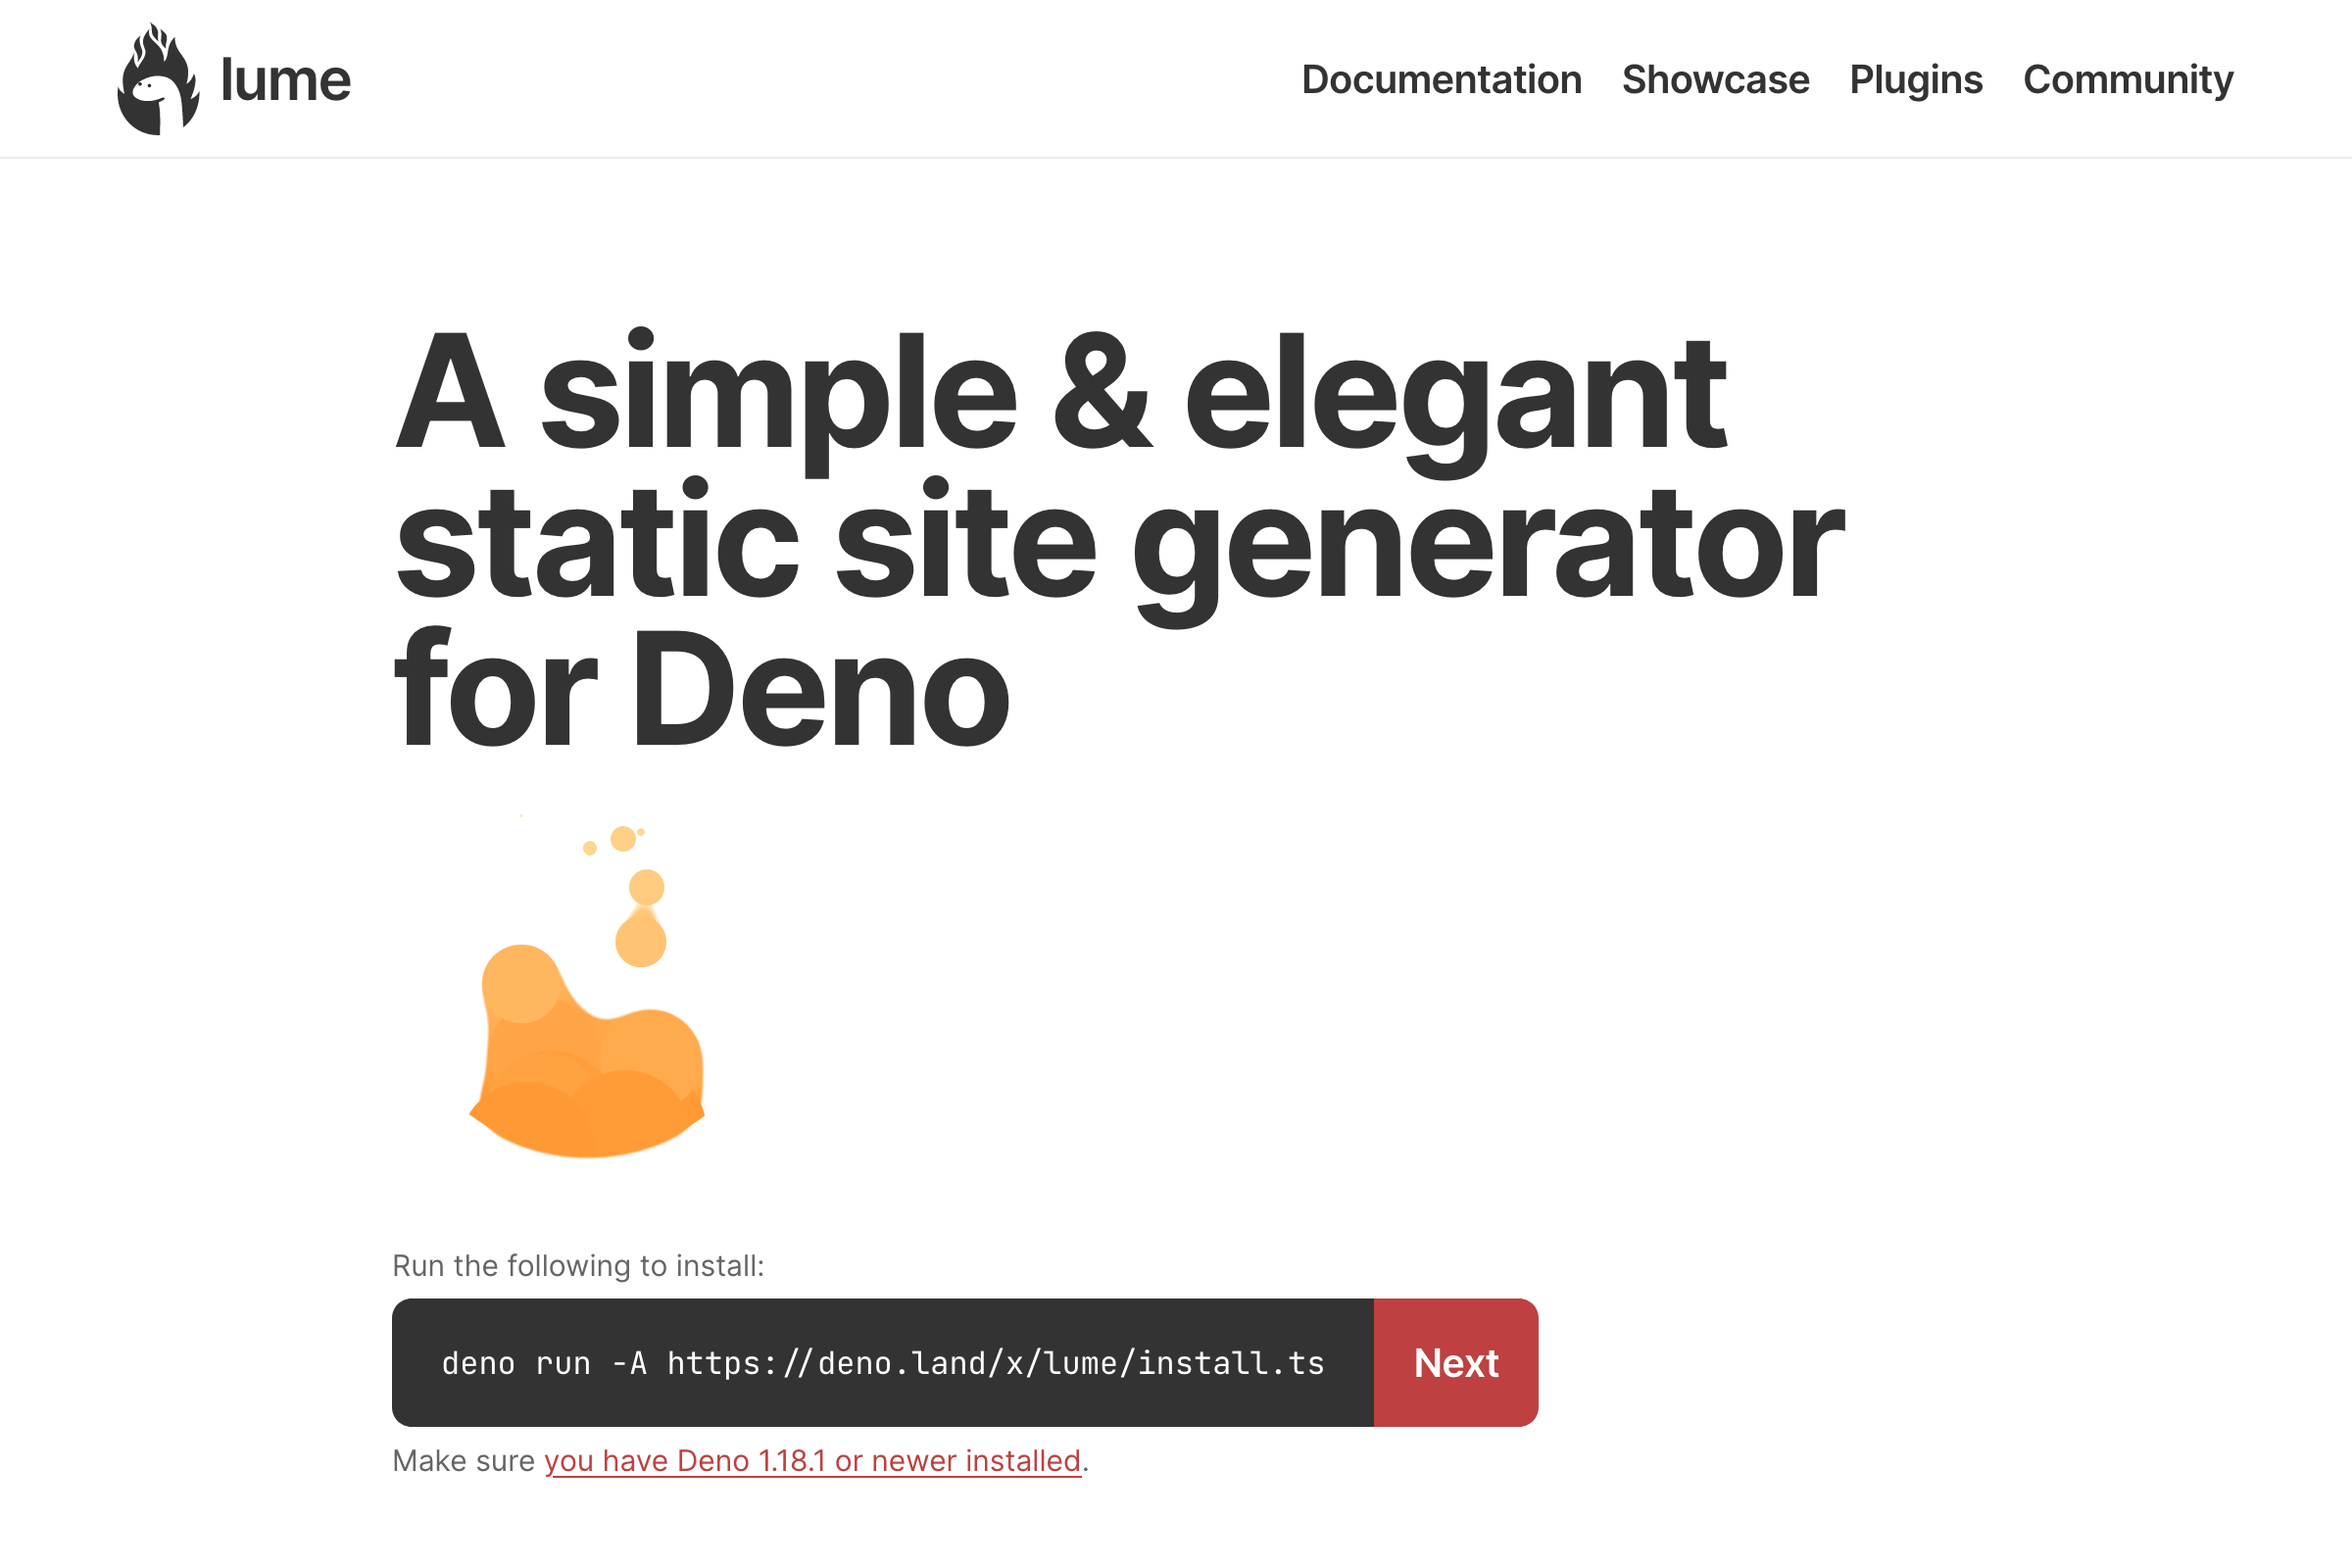
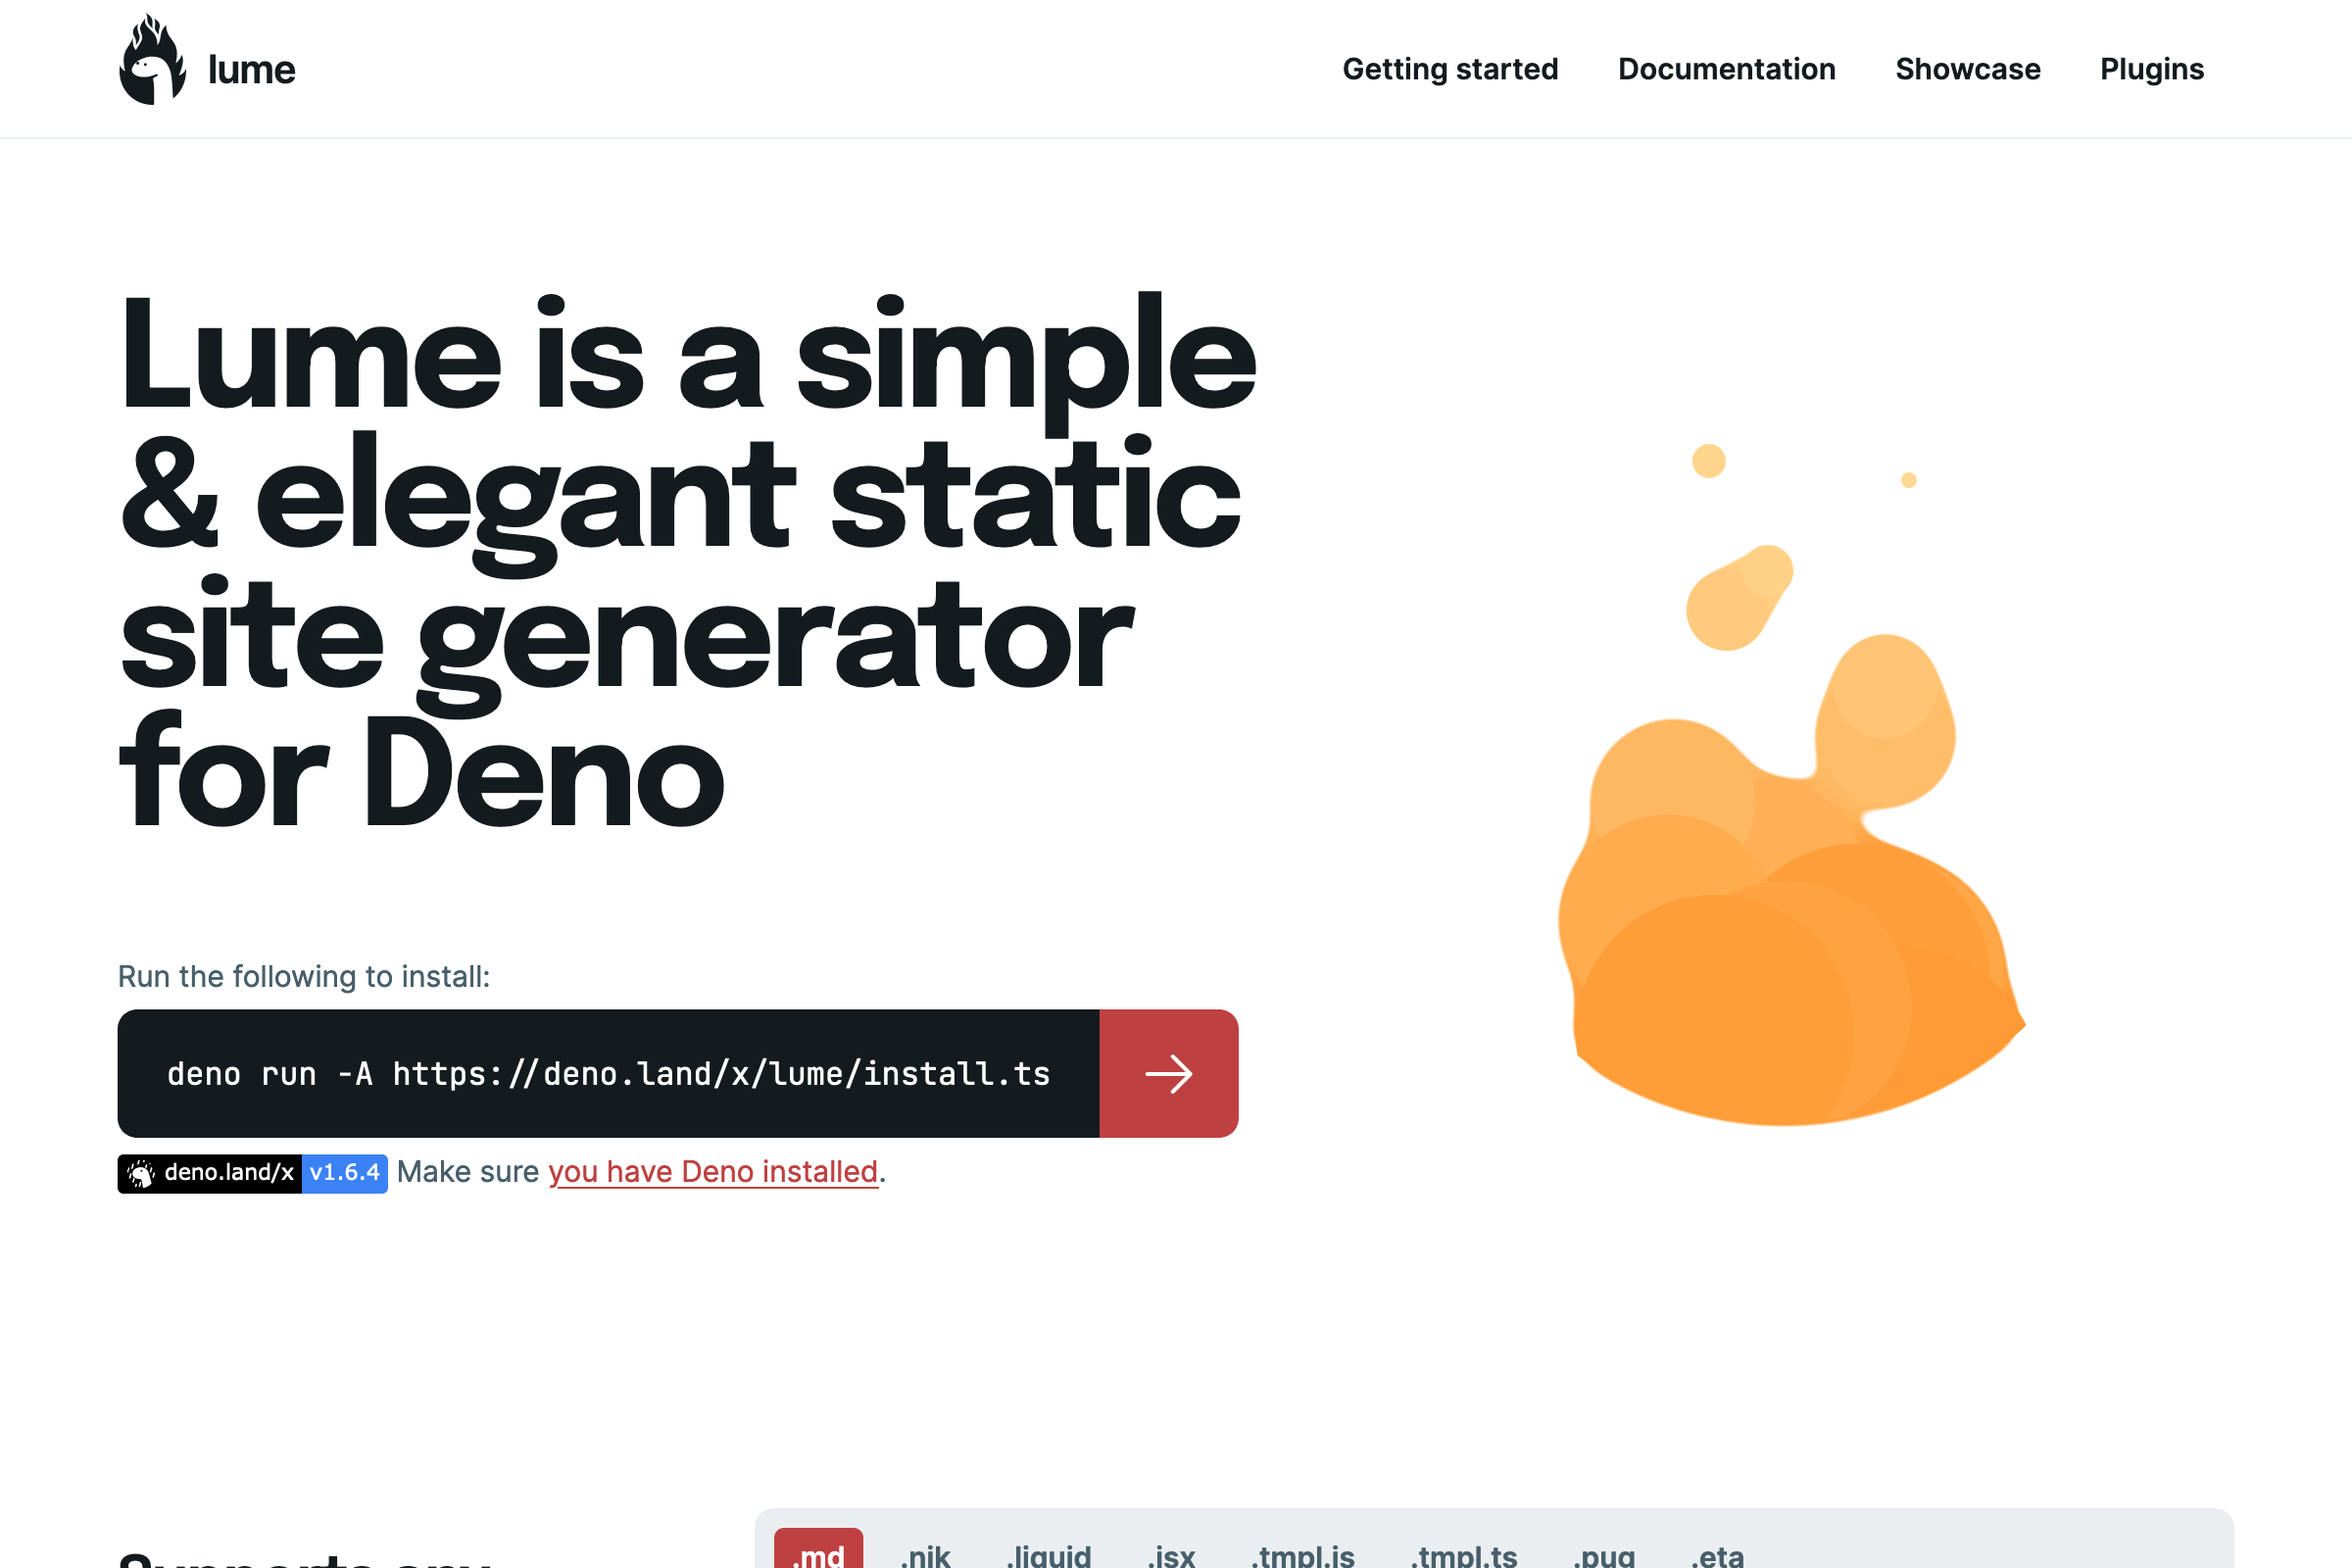
style improvements

diff --git a/styles/pages/landing.css b/styles/pages/landing.css
@@ -14,19 +14,33 @@
 
 /** Header */
 .landing-header {
-  width: min(800px, 100%);
-  margin: auto;
+  position: relative;
 
   & h1 {
     font: var(--text-display);
     letter-spacing: var(--text-display-spacing);
     margin: 0;
     max-width: 8em;
+    grid-area: title;
+  }
+
+  @media (min-width: 1000px) {
+    display: grid;
+    grid-template-columns: minmax(620px, 1fr) 1fr;
+    grid-template-areas: "title fire" "install fire";
+    row-gap: var(--row-gap-0);
   }
 }
 .landing-header-fire {
   margin: 0;
   padding: 0;
+  grid-area: fire;
+  align-self: end;
+  justify-self: center;
+
+  @media (min-width: 1000px) {
+    font-size: min(2.5vw, 40px);
+  }
 }
 
 /** Install */
@@ -34,6 +48,7 @@
   margin: var(--row-gap-0) 0 0;
   font: var(--text-caption);
   color: var(--color-foreground-1);
+  grid-area: install;
 
   & p {
     margin: 0;
@@ -172,7 +187,12 @@
   display: flex;
   column-gap: 10px;
   overflow-x: auto;
+  -webkit-overflow-scrolling: touch;
   scrollbar-width: none;
+
+  &::-webkit-scrollbar {
+    display: none;
+  }
 
   & > a {
     flex: 0 0 auto;

diff --git a/_includes/styles/components/navbar.css b/_includes/styles/components/navbar.css
@@ -13,6 +13,9 @@
   justify-content: space-between;
   height: 70px;
   overflow-x: auto;
+  column-gap: var(--column-gap-1);
+  -webkit-overflow-scrolling: touch;
+  scrollbar-width: thin;
 }
 .navbar-logo {
   display: flex;
